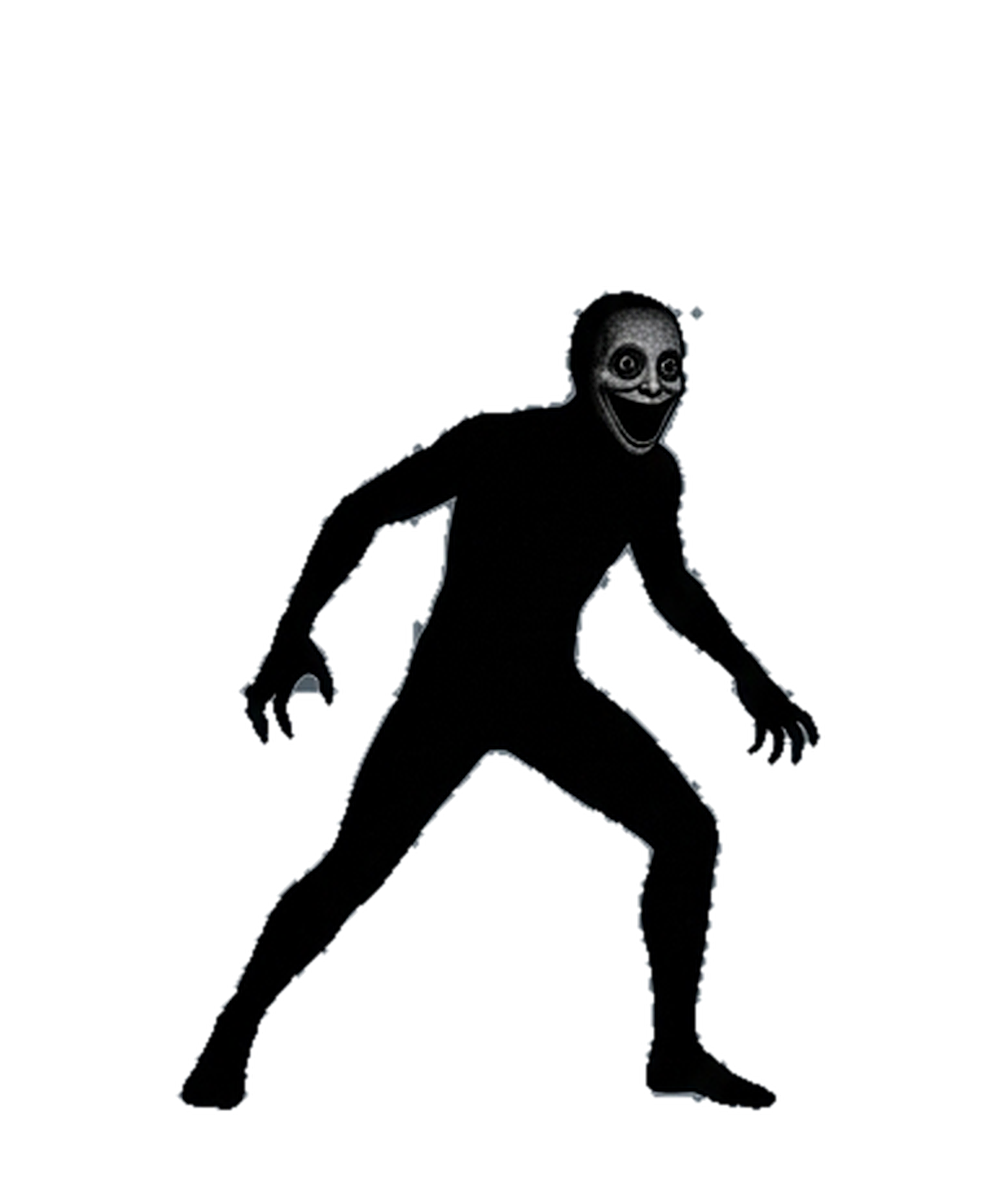
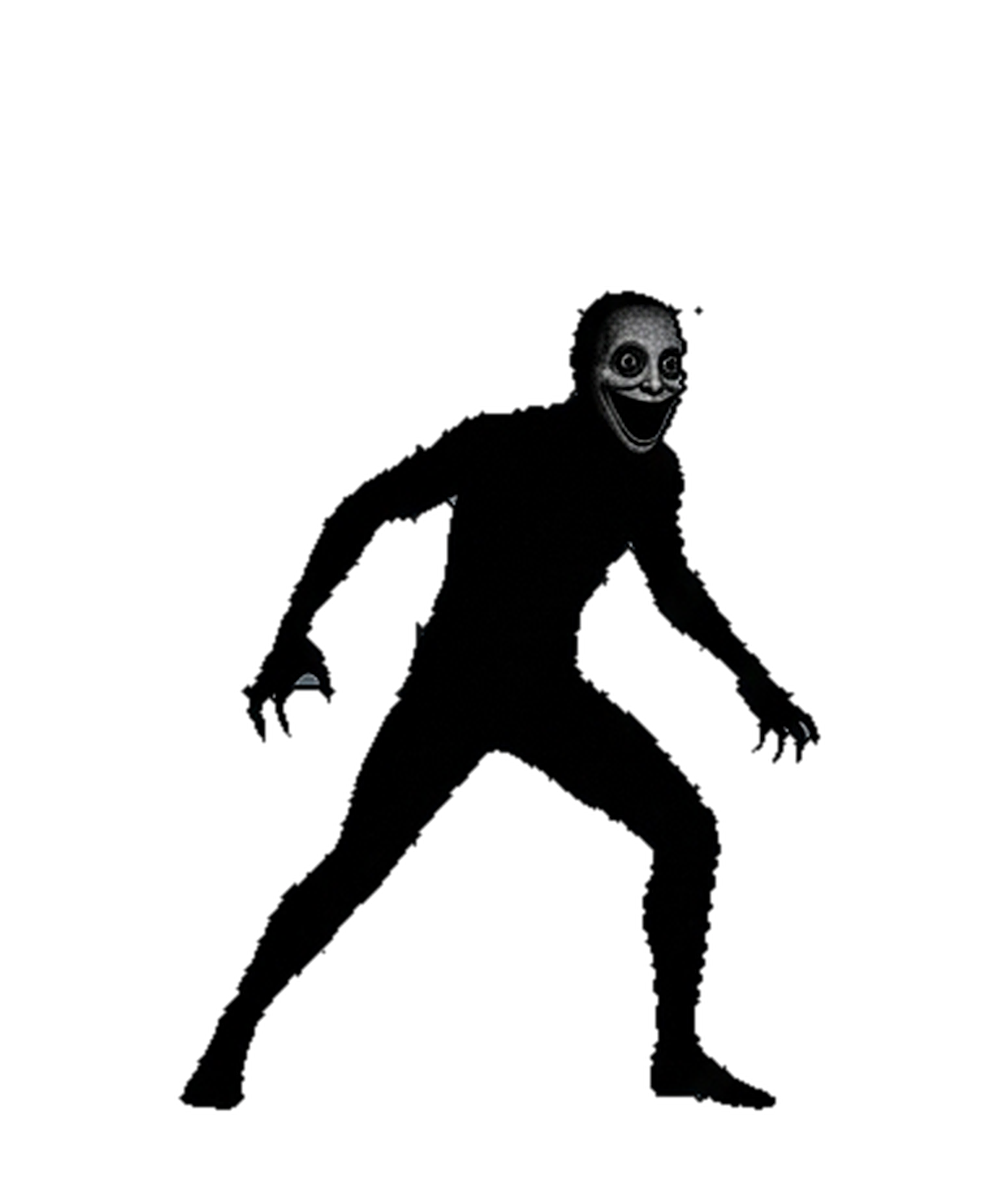
Cenas mais sombrias e aura escura do Abismo

diff --git a/src/animacao.py b/src/animacao.py
@@ -214,7 +214,7 @@ def _luz(larg: int, alt: int, cor, alfa: int, blur: int) -> Image.Image:
     return _cache[chave]
 
 
-def _desenhar_personagem(quadro, p, meta, t, dur, prot, escala_tela=1.0, noturno=0.25, paralaxe=0.0, tenso=False):
+def _desenhar_personagem(quadro, p, meta, t, dur, prot, escala_tela=1.0, noturno=0.4, paralaxe=0.0, tenso=False):
     cw, ch = quadro.size
     acao, pose = p["acao"], p["pose"]
     prog = t / dur if dur else 0
@@ -359,6 +359,7 @@ def _desenhar_ameaca(quadro, a, meta, t, dur, escala_tela=1.0, paralaxe=0.0):
         salto = (int(t * 24) % 31) in (0, 1)
         dx = (9 if salto else 0) + math.sin(t * 1.3) * altura * 0.004
         img = _com_alfa(img, alfa * (0.75 if salto else 1.0))
+        _aura(quadro, cw * x + dx, ch * 0.46, img.width * 1.9, img.height * 1.5, alfa)
         quadro.alpha_composite(img, (int(cw * x - img.width / 2 + dx), int(ch * 0.46 - img.height / 2)))
         return
     if a["acao"] == "aproximando":
@@ -382,10 +383,14 @@ def _desenhar_ameaca(quadro, a, meta, t, dur, escala_tela=1.0, paralaxe=0.0):
     img = _com_alfa(img, alfa)
     cx = int(cw * x + paralaxe * cw * 0.4)
     pes = int(ch * piso + bob)
-    if tam != "perto":
-        sb = _sombra_chao(int(img.width * 0.4))
-        quadro.alpha_composite(_com_alfa(sb, alfa), (cx - sb.width // 2, int(ch * piso) - sb.height // 2))
-    quadro.alpha_composite(img, (cx - img.width // 2, pes - int(img.height * PES_NO_DESENHO)))
+    topo = pes - int(img.height * PES_NO_DESENHO)
+    bb = img.getbbox() or (0, 0, img.width, img.height)
+    corpo_h = bb[3] - bb[1]
+    pulso_aura = 0.85 + 0.15 * math.sin(t * 1.1)
+    _aura(quadro, cx, topo + (bb[1] + bb[3]) / 2, (bb[2] - bb[0]) * 2.4, corpo_h * 1.5, alfa * pulso_aura)
+    sb = _sombra_chao(int(img.width * 0.4))
+    quadro.alpha_composite(_com_alfa(sb, alfa), (cx - sb.width // 2, int(ch * piso) - sb.height // 2))
+    quadro.alpha_composite(img, (cx - img.width // 2, topo))
 
 
 # ---------------------------------------------------------------- efeitos
@@ -467,6 +472,41 @@ def _quadro_cftv(cena, t, dur, prot, n):
     ImageDraw.Draw(luz).ellipse((0, 0, sw * 2, sh), fill=(170, 220, 255, 45))
     fundo.alpha_composite(luz.filter(ImageFilter.GaussianBlur(40)), (sx - sw // 2, sy - sh // 3))
     return fundo
+
+
+ESCURIDAO = 0.30      # quanto os cenários escurecem (0 = original, 0.5 = bem escuro)
+
+
+def _cenario_escuro(nome: str) -> Image.Image:
+    """Cenário escurecido e puxado para o azul-noite; luzes fortes (abajur, poste, TV) quase não perdem brilho."""
+    chave = ("cen_escuro", nome)
+    if chave not in _cache:
+        import numpy as np
+        a = np.asarray(_img(PASTA_CEN / f"{nome}.png")).astype(float)
+        rgb = a[:, :, :3]
+        lum = rgb.mean(axis=2, keepdims=True) / 255
+        k = 1 - ESCURIDAO * (1 - lum ** 2)            # partes escuras escurecem mais que as luzes
+        rgb = rgb * k * np.array([0.92, 0.95, 1.04])
+        _cache[chave] = Image.fromarray(np.dstack([rgb.clip(0, 255), a[:, :, 3:]]).astype("uint8"))
+    return _cache[chave]
+
+
+def _aura(quadro, cx, cy, larg, alt, forca):
+    """Mancha de escuridão em volta de uma ameaça, como se ela engolisse a luz."""
+    if forca <= 0.01:
+        return
+    lq, aq = max(40, int(larg) // 40 * 40), max(40, int(alt) // 40 * 40)      # tamanhos arredondados: reaproveita
+    chave = ("aura", lq, aq)
+    if chave not in _cache:
+        pw, ph = lq // 4 + 40, aq // 4 + 40                                  # desenha pequeno e amplia (rápido)
+        m = Image.new("L", (pw, ph), 0)
+        ImageDraw.Draw(m).ellipse((20, 20, pw - 20, ph - 20), fill=215)
+        m = m.filter(ImageFilter.GaussianBlur(max(4, lq // 4 // 6))).resize((pw * 4, ph * 4), Image.BILINEAR)
+        im = Image.new("RGBA", m.size, (0, 0, 4, 0))
+        im.putalpha(m)
+        _cache[chave] = im
+    m = _com_alfa(_cache[chave], min(1.0, forca))
+    quadro.alpha_composite(m, (int(cx - m.width / 2), int(cy - m.height / 2)))
 
 
 # ---------------------------------------------------------------- ritmo da narração
@@ -559,7 +599,7 @@ def quadro(cena: dict, t: float, dur: float, prot: str = "homem", n: int = 0) ->
         meta = {}
     else:
         meta = META[cena["cenario"]]
-        img = _img(PASTA_CEN / f"{cena['cenario']}.png").copy()
+        img = _cenario_escuro(cena["cenario"]).copy()
         ef = cena["efeito"]
         if ef == "tv_chiando":      # TV e chuva ficam no cenário, atrás de quem estiver na frente
             _tv(img, meta, t, n)
@@ -619,7 +659,9 @@ def quadro(cena: dict, t: float, dur: float, prot: str = "homem", n: int = 0) ->
 
     # bordas escurecem conforme a história fica mais tensa e em cada palavra forte
     img = img.convert("RGB")
-    vin = 0.30 + 0.30 * tensao + 0.18 * acento + 0.04 * math.sin(t * 0.9)
+    vin = 0.42 + 0.30 * tensao + 0.15 * acento + 0.04 * math.sin(t * 0.9)
+    if cena.get("ameaca"):
+        vin += 0.08                                 # com perigo em cena, o quadro fecha mais
     img = Image.composite(Image.new("RGB", (W, H), (2, 3, 10)), img, _vinheta(vin))
 
     # transição: escurece no começo e no fim da cena

diff --git a/assets/personagem/v2/fonte/montar_abismo.py b/assets/personagem/v2/fonte/montar_abismo.py
@@ -29,8 +29,11 @@ def recortar(caixa):
         azul = nd.mean(sub[:, :, 2] - sub[:, :, 0], lb, range(1, kb + 1))
         m |= np.isin(lb, [i + 1 for i, (t, z) in enumerate(zip(tam, azul)) if t < 150 or z < 11])
     m = nd.binary_opening(m, iterations=1)
-    img = F.crop(caixa).convert("RGBA")
-    img.putalpha(Image.fromarray((m * 255).astype("uint8")).filter(ImageFilter.GaussianBlur(0.7)))
+    borda = m & ~nd.binary_erosion(m, iterations=3)   # contorno: pinta de preto para não sobrar o cinza do fundo
+    arr = np.asarray(F.crop(caixa)).copy()
+    arr[borda] = (arr[borda] * 0.15).astype("uint8")
+    img = Image.fromarray(arr).convert("RGBA")
+    img.putalpha(Image.fromarray((nd.binary_erosion(m, iterations=1) * 255).astype("uint8")).filter(ImageFilter.GaussianBlur(0.7)))
     return img.crop(img.getbbox())
 
 

diff --git a/assets/personagem/v2/fonte/montar_sprites.py b/assets/personagem/v2/fonte/montar_sprites.py
@@ -35,8 +35,11 @@ def recortar(folha, caixa):
     lab, n = nd.label(m)
     m = lab == (1 + int(np.argmax(nd.sum(m, lab, range(1, n + 1)))))   # só a figura maior (tira textos)
     m = nd.binary_opening(nd.binary_fill_holes(m), iterations=1)
-    alfa = Image.fromarray((m * 255).astype("uint8")).filter(ImageFilter.GaussianBlur(0.8))
-    img = FOLHA.crop(caixa).convert("RGBA")
+    borda = m & ~nd.binary_erosion(m, iterations=2)   # contorno escuro: não sobra o azul do fundo da folha
+    arr = np.asarray(FOLHA.crop(caixa)).copy()
+    arr[borda] = (arr[borda] * 0.3).astype("uint8")
+    alfa = Image.fromarray((nd.binary_erosion(m, iterations=1) * 255).astype("uint8")).filter(ImageFilter.GaussianBlur(0.8))
+    img = Image.fromarray(arr).convert("RGBA")
     img.putalpha(alfa)
     return img.crop(img.getbbox())
 
